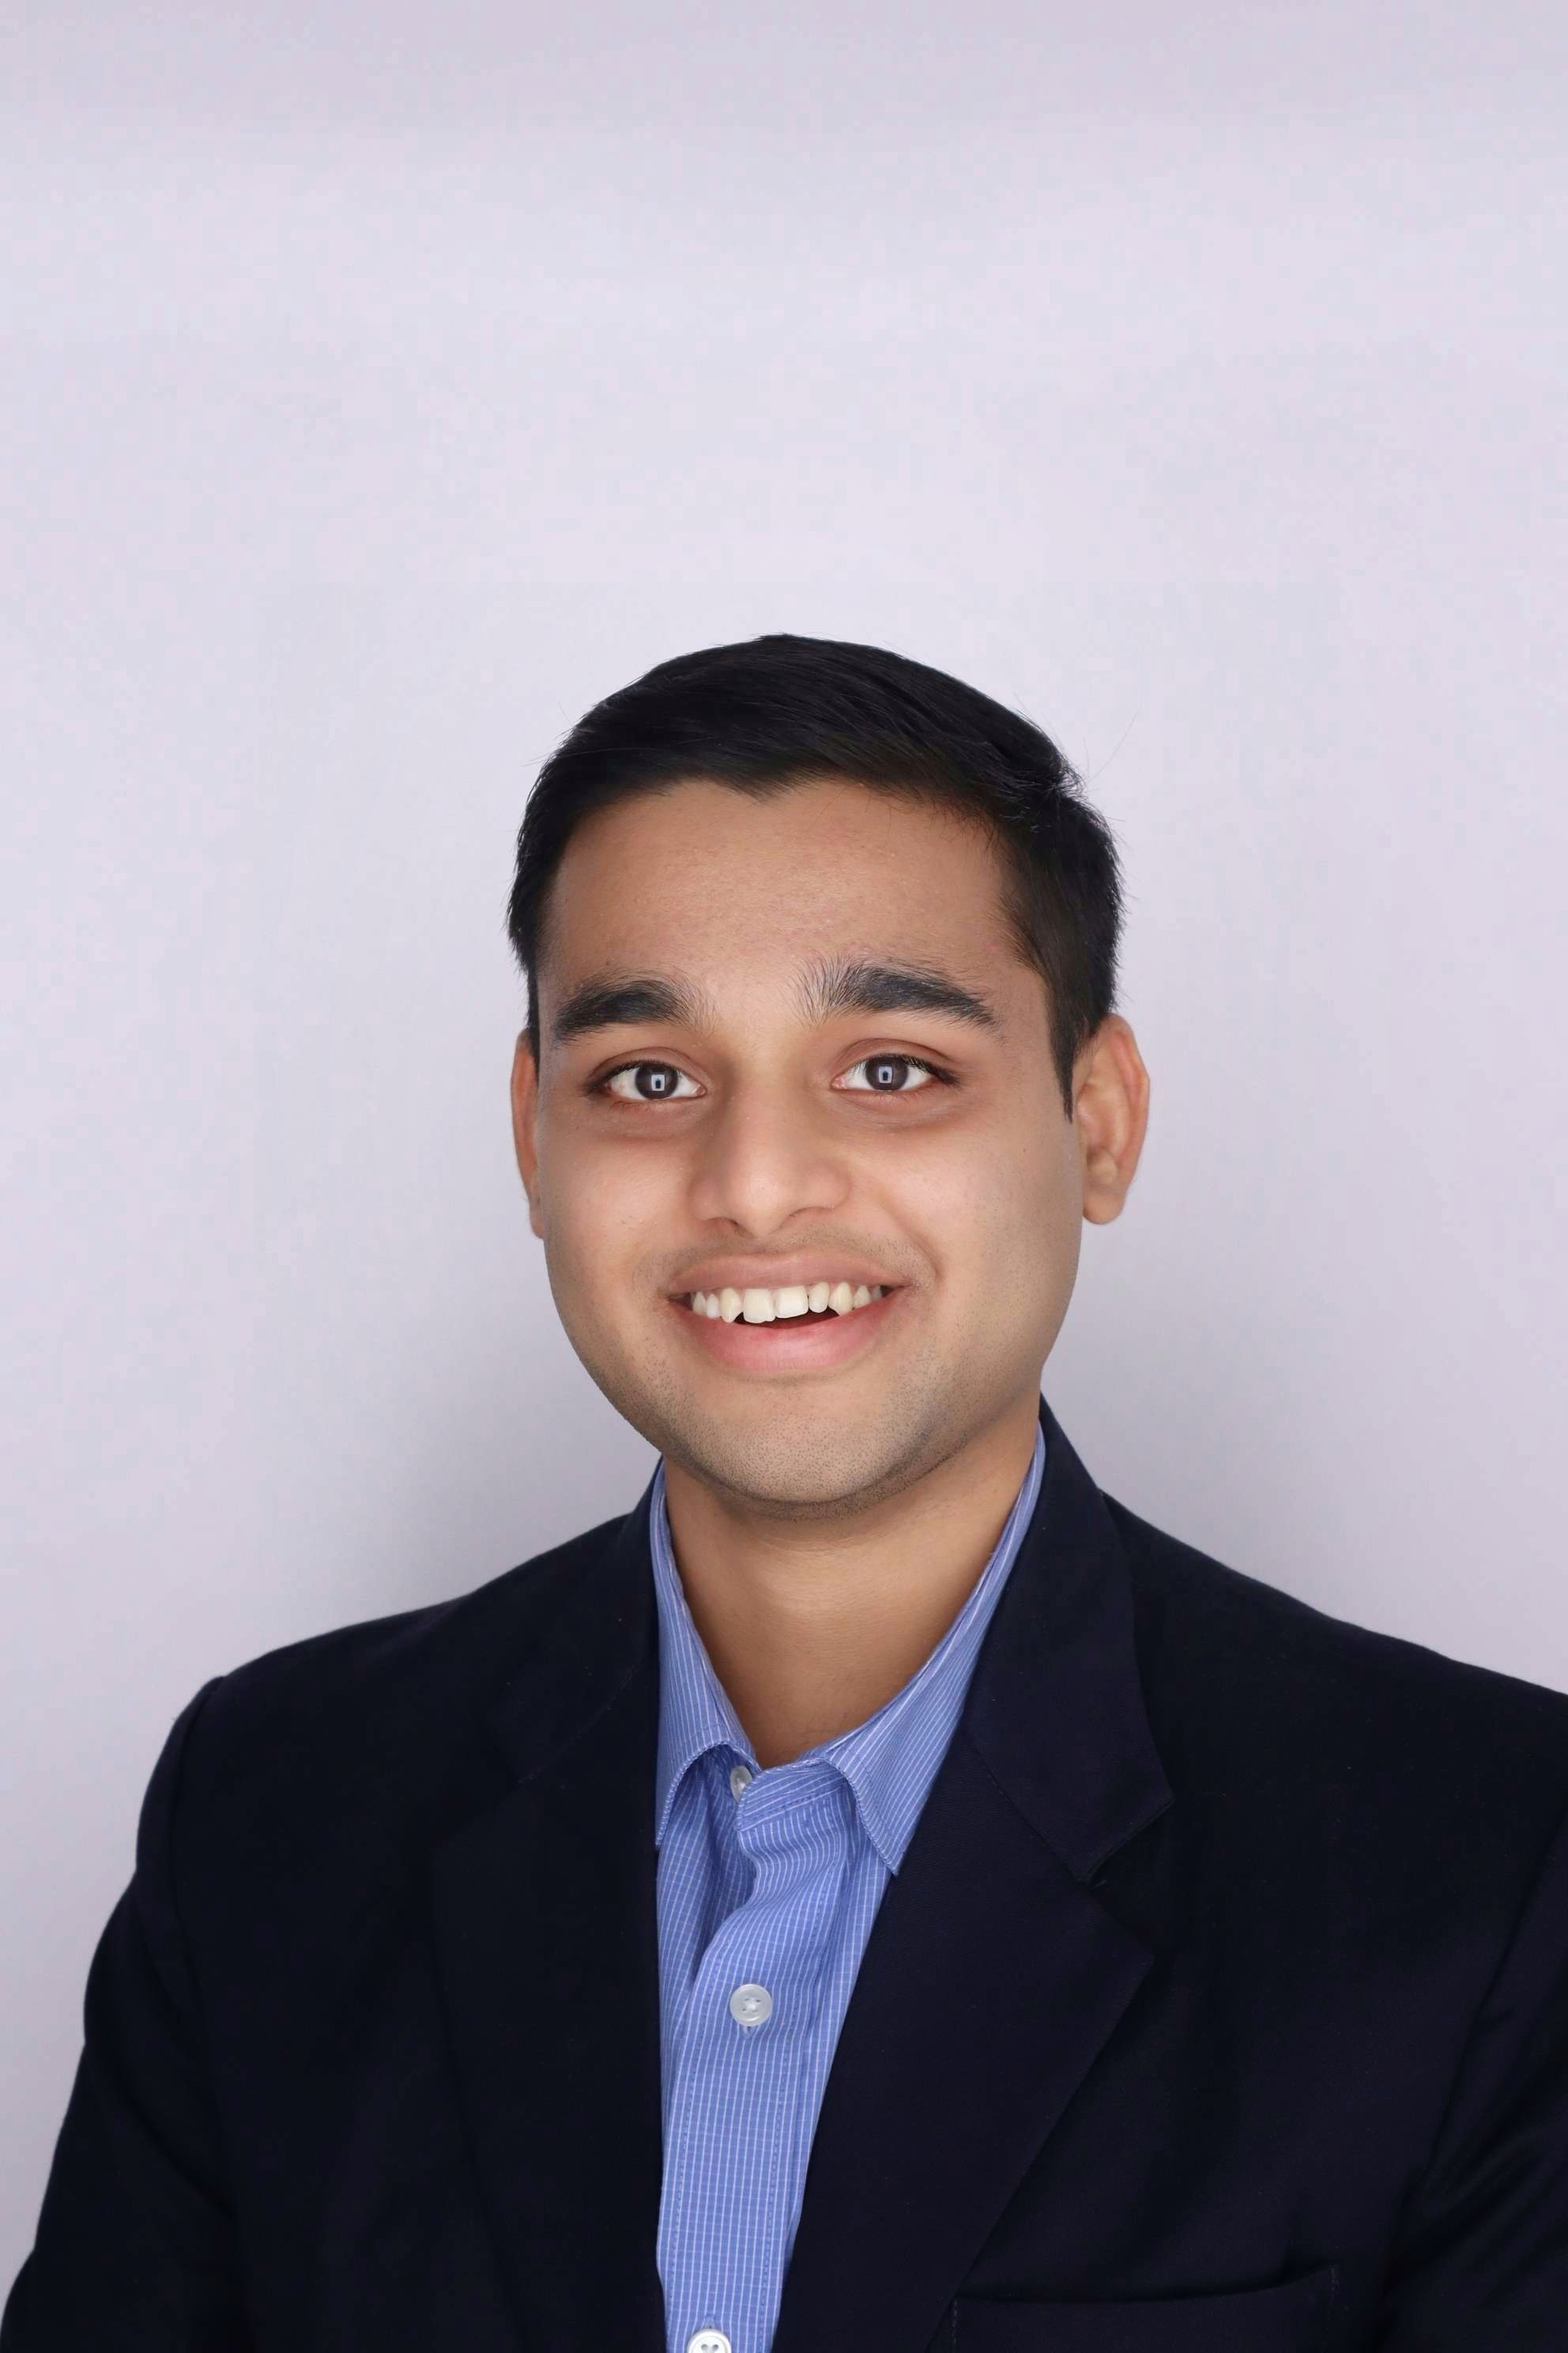
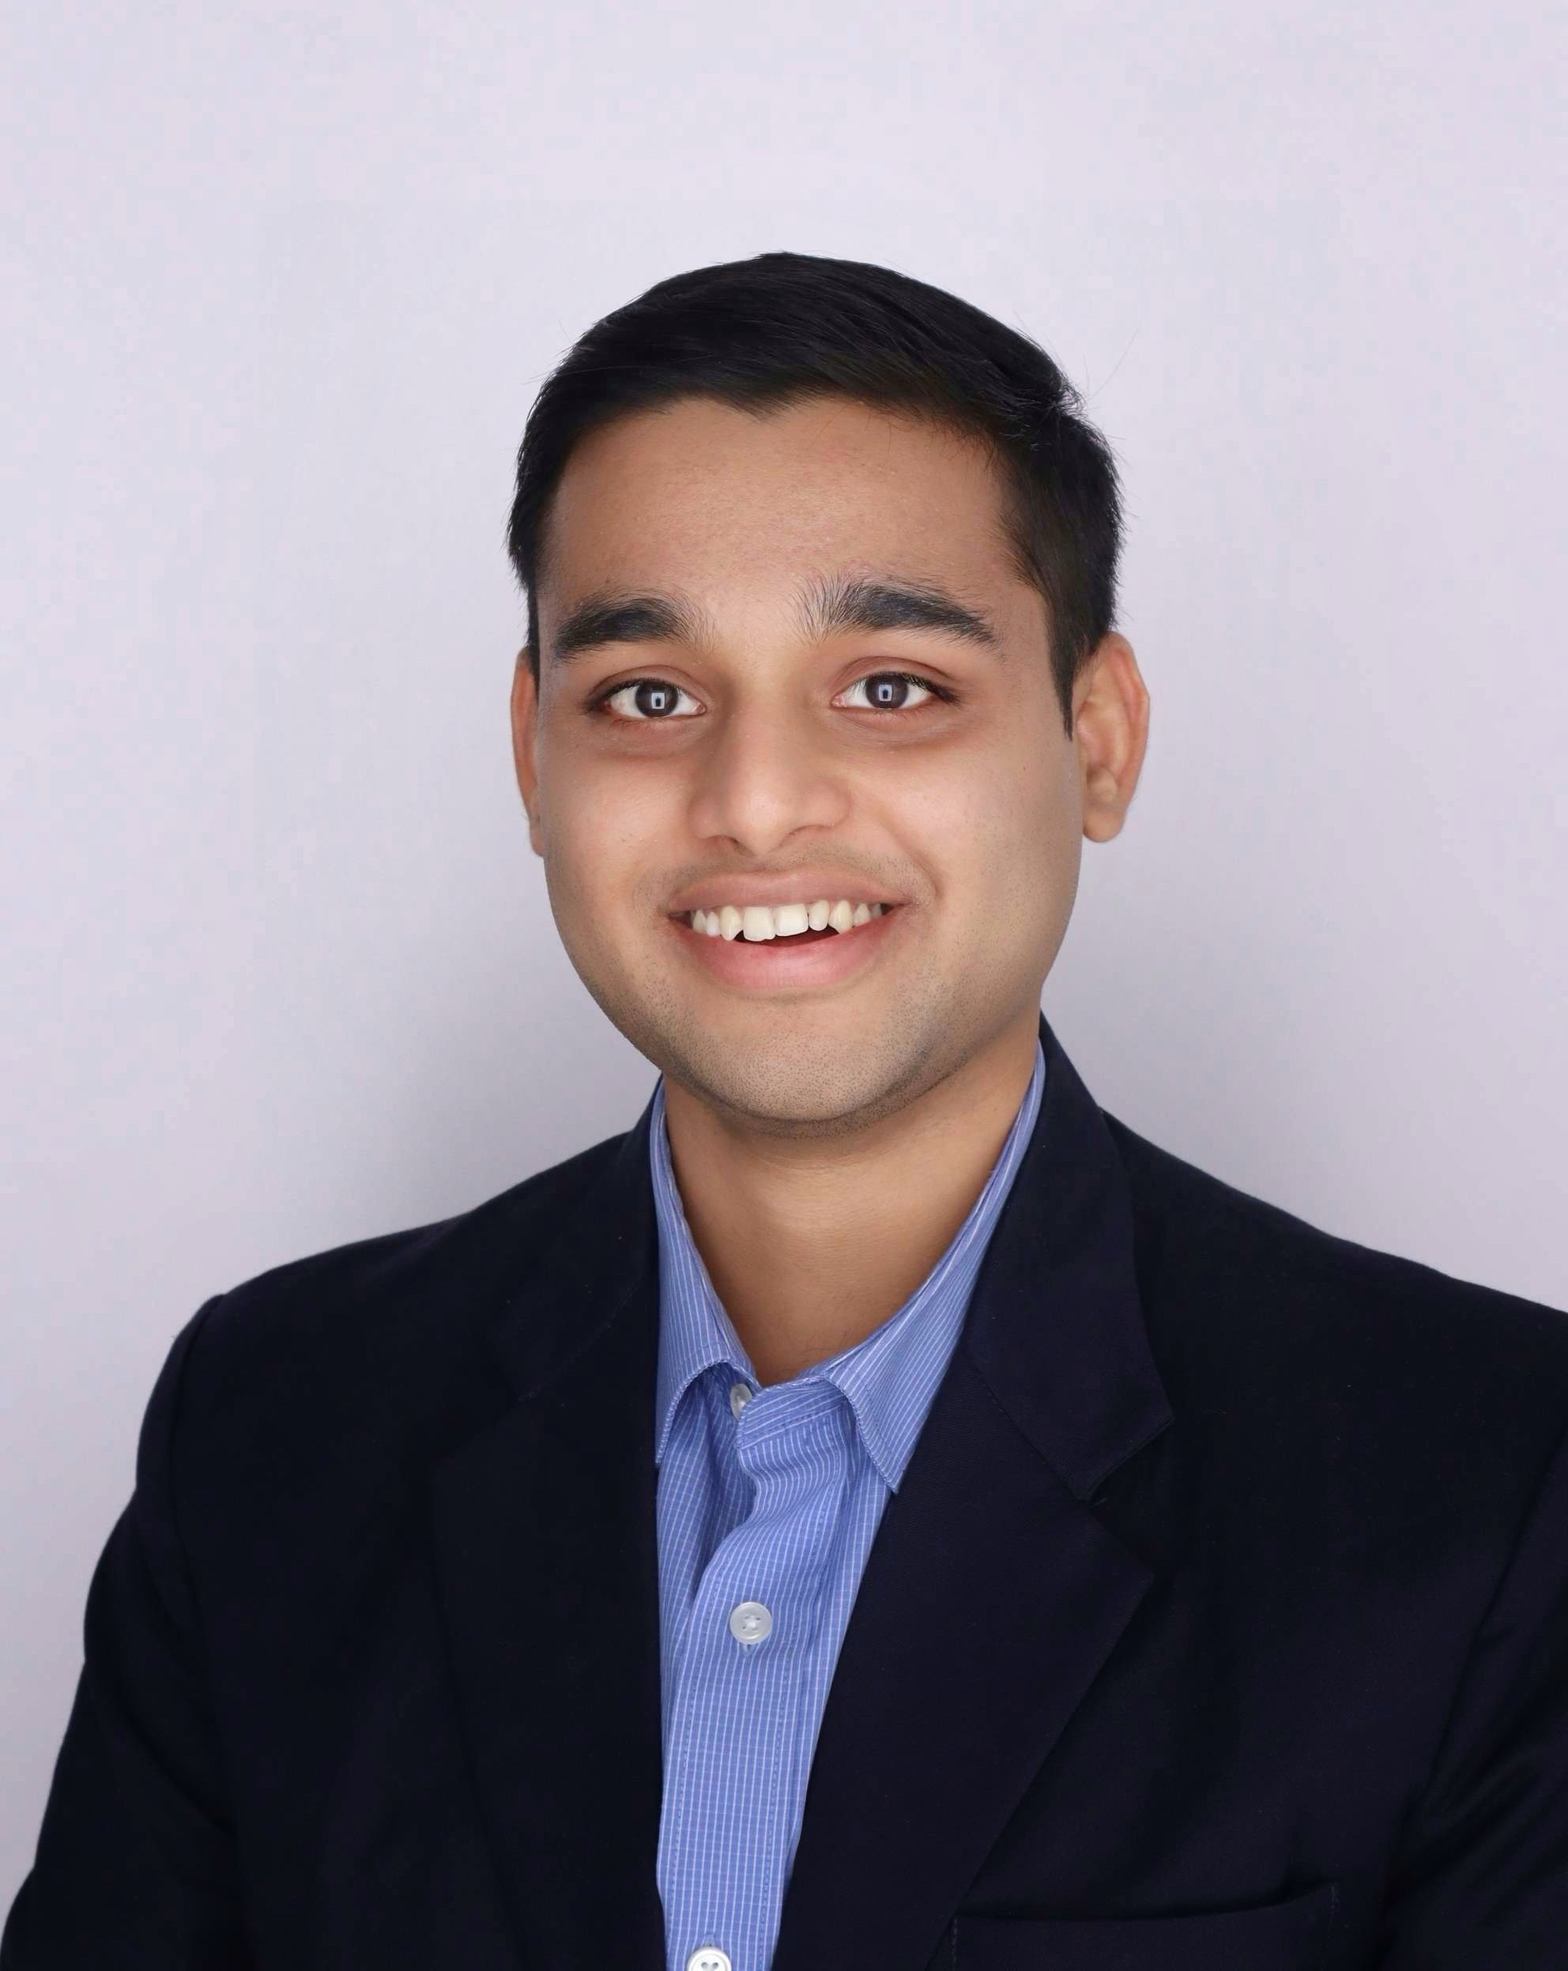
Updated about section and headshot

Changed region(s): [[0.0312, 0.1235, 1.0, 1.0], [0.0, 0.9266, 0.0312, 0.9884]]

diff --git a/_pages/about.md b/_pages/about.md
@@ -19,49 +19,10 @@ social: true # includes social icons at the bottom of the page
 
 I am a data-driven problem solver with a passion for GenAI and Recommendation Systems. I hold a Master’s in [Electrical Engineering](https://engineering.nyu.edu/academics/departments/electrical-and-computer-engineering) from [New York University](https://www.nyu.edu/), where I specialized in High-Performance Machine Learning, Generative AI, Big Data, and Wireless Communications. I graduated with distinction in 2023 with a B.Tech in [Electronics and Communication Engineering](https://vit.ac.in/schools/school-of-electronics-engineering) from [VIT University](https://vit.ac.in/).
 
-I am passionate about Generative AI techniques that blend domain expertise with deep learning. I enjoy exploring AI Agents (with guardrails) and RAGs to build safe, robust, and explainable systems. My work also spans Recommendation Systems, Distributed Deep Learning, and probabilistic models.
+I am passionate about Generative AI techniques that blend domain expertise with deep learning. I enjoy experimenting with Retrieval-Augmented Generation (RAG) to bridge the gap between static AI models and dynamic, real-world data sources. My work also spans Recommendation Systems, Distributed Deep Learning, and probabilistic models.
 
 I am part of [NYU WIRELESS](https://engineering.nyu.edu/research-innovation/centers/nyu-wireless) at [NYU Tandon](https://engineering.nyu.edu/) where I was advised by Prof. [Sundeep Rangan](https://engineering.nyu.edu/faculty/sundeep-rangan) to work on developing advanced machine learning models for sub-6G channel estimation. I have also worked at [Johnson & Johnson](https://thenext.jnjmedtech.com/), [ISRO](https://www.isro.gov.in/) and [Indian Oil Corporation Ltd.](https://www.iocl.com/) which provided me with hands-on experience in wireless communications, quantum key distribution, AI/ML, network security, and managing large-scale data.
 
 **I am interested in exploring roles involving Data Science, Big Data Analytics, GenAI and Recommendation Systems.**
 
 Let’s [connect](https://www.linkedin.com/in/panuj/)!!
-
-<!-- ***Data Science & Generative AI. Understanding the "black box" in AI.***
-
-I’m a data-driven problem solver passionate about Generative AI and AI Agents. I hold a Master’s in [Electrical Engineering](https://www.engineering.columbia.edu/electrical-engineering-department) from [Columbia University](https://en.wikipedia.org/wiki/Columbia_University), specializing in Machine Learning, Generative AI, NLP, and Big Data. I completed my B.Tech. from [VIT University](https://en.wikipedia.org/wiki/Vellore_Institute_of_Technology) in 2023, graduating with distinction.
-
-My interests include Generative AI techniques that facilitates the integration of domain knowledge and deep learning models. I am passionate about exploring how AI Agents(with guardrails) and RAGs can foster safe, robust, and explainable AI. I have also worked on other topics like Recommendation Systems, LLM finetuning and probabilistic models.
-
-I was part of [DitecT lab](https://www.columbia.edu/~yf2578/) at [Columbia Engineering](https://www.engineering.columbia.edu) and I was advised by Dr. [Sharon Di](https://www.engineering.columbia.edu/faculty-staff/directory/sharon-di) & [Zhaobin Mo](https://zhaobinmo.github.io) where I developed a custom R-CNN model for autonomous vehicles to generate control signals and reducing data volume by 32% via Data distillation.
-
-During my summer internship at Nokia, I designed an MLP-Mixer Autoencoder for 6G networks at [Nokia](https://www.nokia.com/), cutting model parameters by 50%, and fine-tuned LLMs to save 25+ hours on document summarization. Prior to Columbia University I have also worked at [ISRO](https://www.isro.gov.in/) and [Indian Oil Corporation Ltd.](https://en.wikipedia.org/wiki/Indian_Oil_Corporation) which gave me hands-on experience in AI, network security, and Data engineering.
-
-My leadership as a PDL Fellow at Columbia University and volunteer work with the Blind People’s Association reflect my commitment to societal impact.
-
-I am interested in exploring roles involving Data Science & Analytics, Generative AI, AI Agents and Recomendation systems.
-
-Let’s [connect](https://www.linkedin.com/in/patelapurva/)!! -->
-
-<!-- Hi,
-
-I’m Apurva Patel — a data-driven problem solver with a passion for transforming cutting-edge technology into real-world solutions. I recently graduated with a Master’s in [Electrical Engineering](https://www.engineering.columbia.edu/electrical-engineering-department) from [Columbia University](https://en.wikipedia.org/wiki/Columbia_University), where I specialized in Machine Learning, Generative AI, NLP, and Big Data Analytics. My academic journey has been shaped by a relentless curiosity for solving complex challenges, and my work reflects a commitment to driving meaningful innovation.
-
-At Columbia, I’ve had the privilege of merging theory with practice. As a Graduate Research Assistant, I developed a custom R-CNN architecture to optimize control signal generation for autonomous vehicles, achieving a 32% reduction in data volume through advanced data distillation techniques. My experience as a Graduate Teaching Assistant for Big Data Analytics and Data Visualization enabled me to mentor over 150+ students, sharing insights and fostering a collaborative learning environment.
-
-Professionally, I’ve worked on the frontier of technology at [Nokia](https://www.nokia.com/), where I designed a MLP-Mixer based Autoencoder for 6G channel data compression, outperforming industry benchmarks with a 50% reduction in model parameters. I’ve also fine-tuned large language models (LLMs) to streamline tasks like document summarization, saving teams 25+ hours.
-
-My journey began at Vellore Institute of Technology, where I graduated as a Dean’s List scholar, ranked 4<sup>th</sup> out of 155 students. My internships at [ISRO](https://www.isro.gov.in/) and [Indian Oil Corporation Ltd.](https://en.wikipedia.org/wiki/Indian_Oil_Corporation) gave me hands-on experience in AI, network security, and data acquisition, fueling my passion for leveraging technology to solve critical problems.
-
-Beyond academics and work, I’ve cultivated leadership skills as a PDL Fellow and Department Representative at Columbia, leading initiatives to enhance student experiences. My volunteer work with the Blind People’s Association in India, where I helped teach math and economics to underprivileged communities, underscores my belief in the power of technology and education to drive societal change.
-
-I’m eager to continue pushing the boundaries of AI and machine learning to create scalable, impactful solutions. I am interested in roles involving Data Science & Analytics, Generative AI, AI Agents and Recomendation systems.
-
-Let’s [connect](https://www.linkedin.com/in/patelapurva/) and collaborate!!
- -->
-
-<!-- Hi,
-
-I’m Apurva Patel, a recent MS graduate in [Electrical Engineering](https://www.engineering.columbia.edu/electrical-engineering-department) from [Columbia University](https://en.wikipedia.org/wiki/Columbia_University) with a passion for Machine Learning, Generative AI, and Big Data. My journey spans developing cutting-edge solutions like an Autoencoder for 6G networks at Nokia and optimizing autonomous vehicle control systems using AI during my graduate research. With hands-on experience in NLP, LLM fine-tuning, and scalable AI solutions, I’m driven to bridge the gap between innovative technology and real-world impact.
-
-I am interested in roles involving Data Science & Analytics, Generative AI, AI Agents and Recomendation systems. Let’s [connect](https://www.linkedin.com/in/patelapurva/) and collaborate!!  -->

diff --git a/_pages/publications.md b/_pages/publications.md
@@ -1,6 +1,6 @@
 ---
 layout: page
-permalink: /publications/
+# permalink: /publications/
 title: publications
 description: publications by categories in reversed chronological order. generated by jekyll-scholar.
 nav: false

diff --git a/_pages/projects.md b/_pages/projects.md
@@ -1,7 +1,7 @@
 ---
 layout: page
 title: projects
-permalink: /projects/
+# permalink: /projects/
 description: A growing collection of your cool projects.
 nav: false
 nav_order: 3

diff --git a/_pages/profiles.md b/_pages/profiles.md
@@ -1,6 +1,6 @@
 ---
 layout: profiles
-permalink: /people/
+# permalink: /people/
 title: people
 description: members of the lab or group
 nav: false

diff --git a/_pages/blog.md b/_pages/blog.md
@@ -1,6 +1,6 @@
 ---
 layout: default
-permalink: /blog/
+# permalink: /blog/
 title: blog
 nav: false
 nav_order: 1
